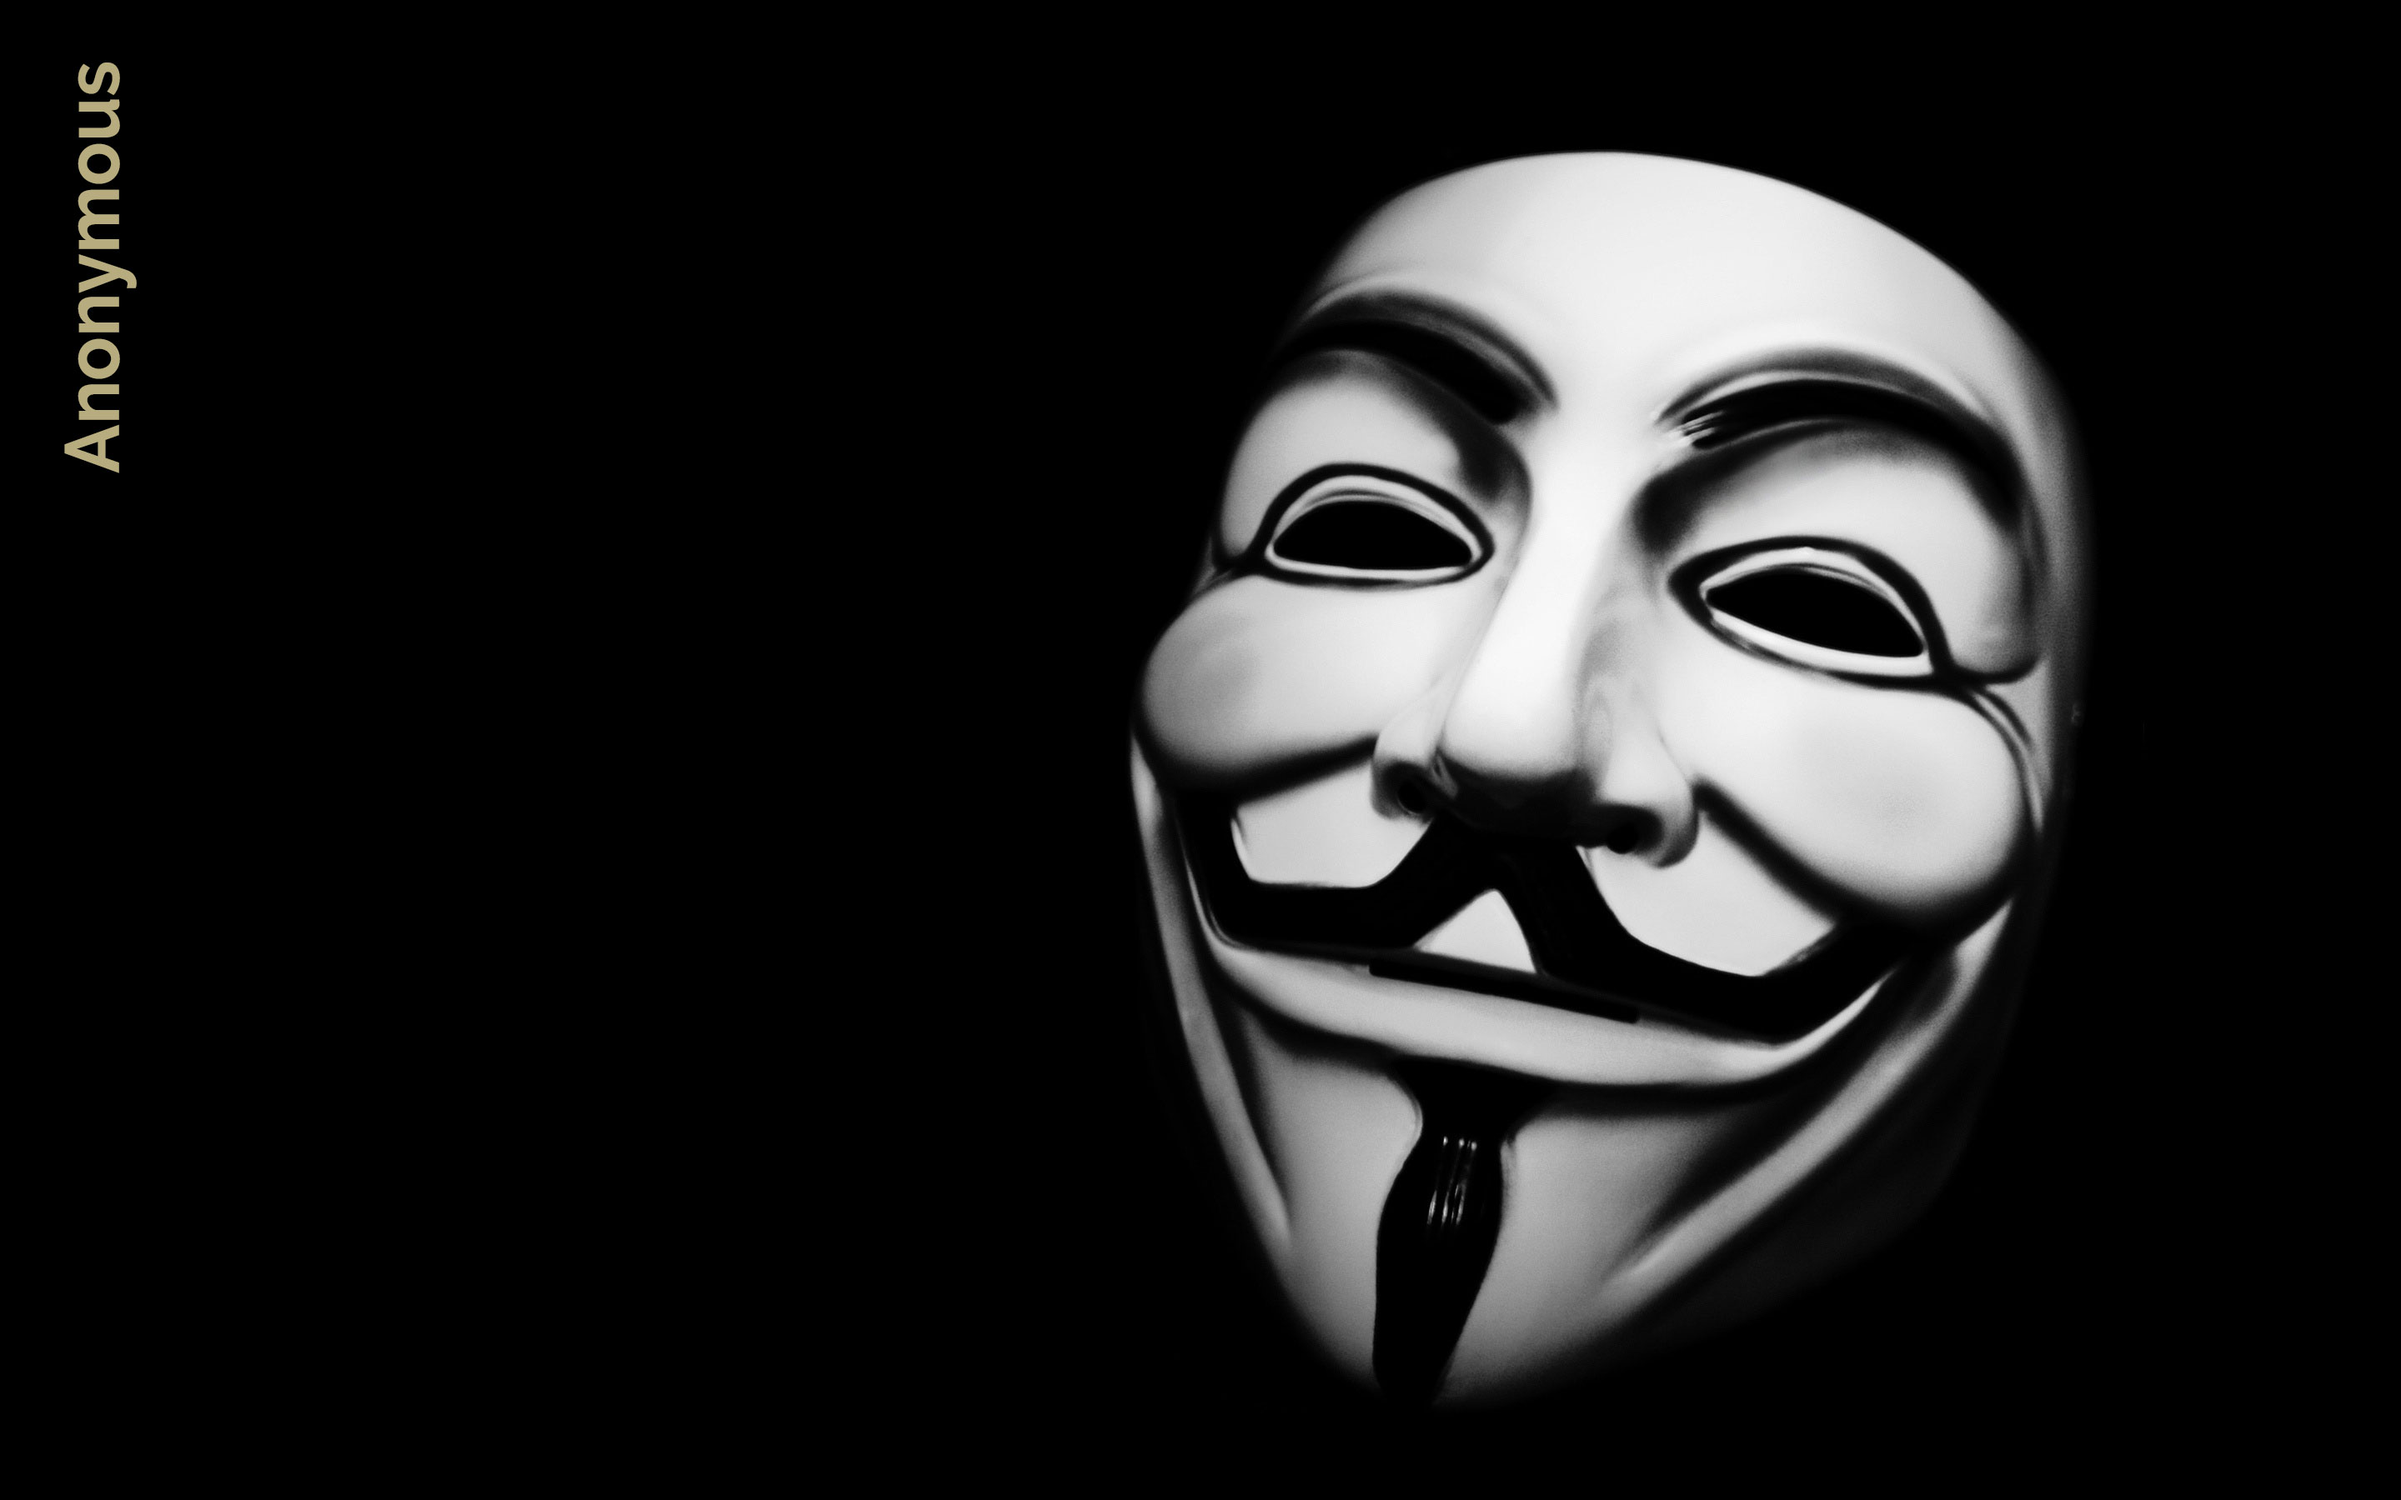
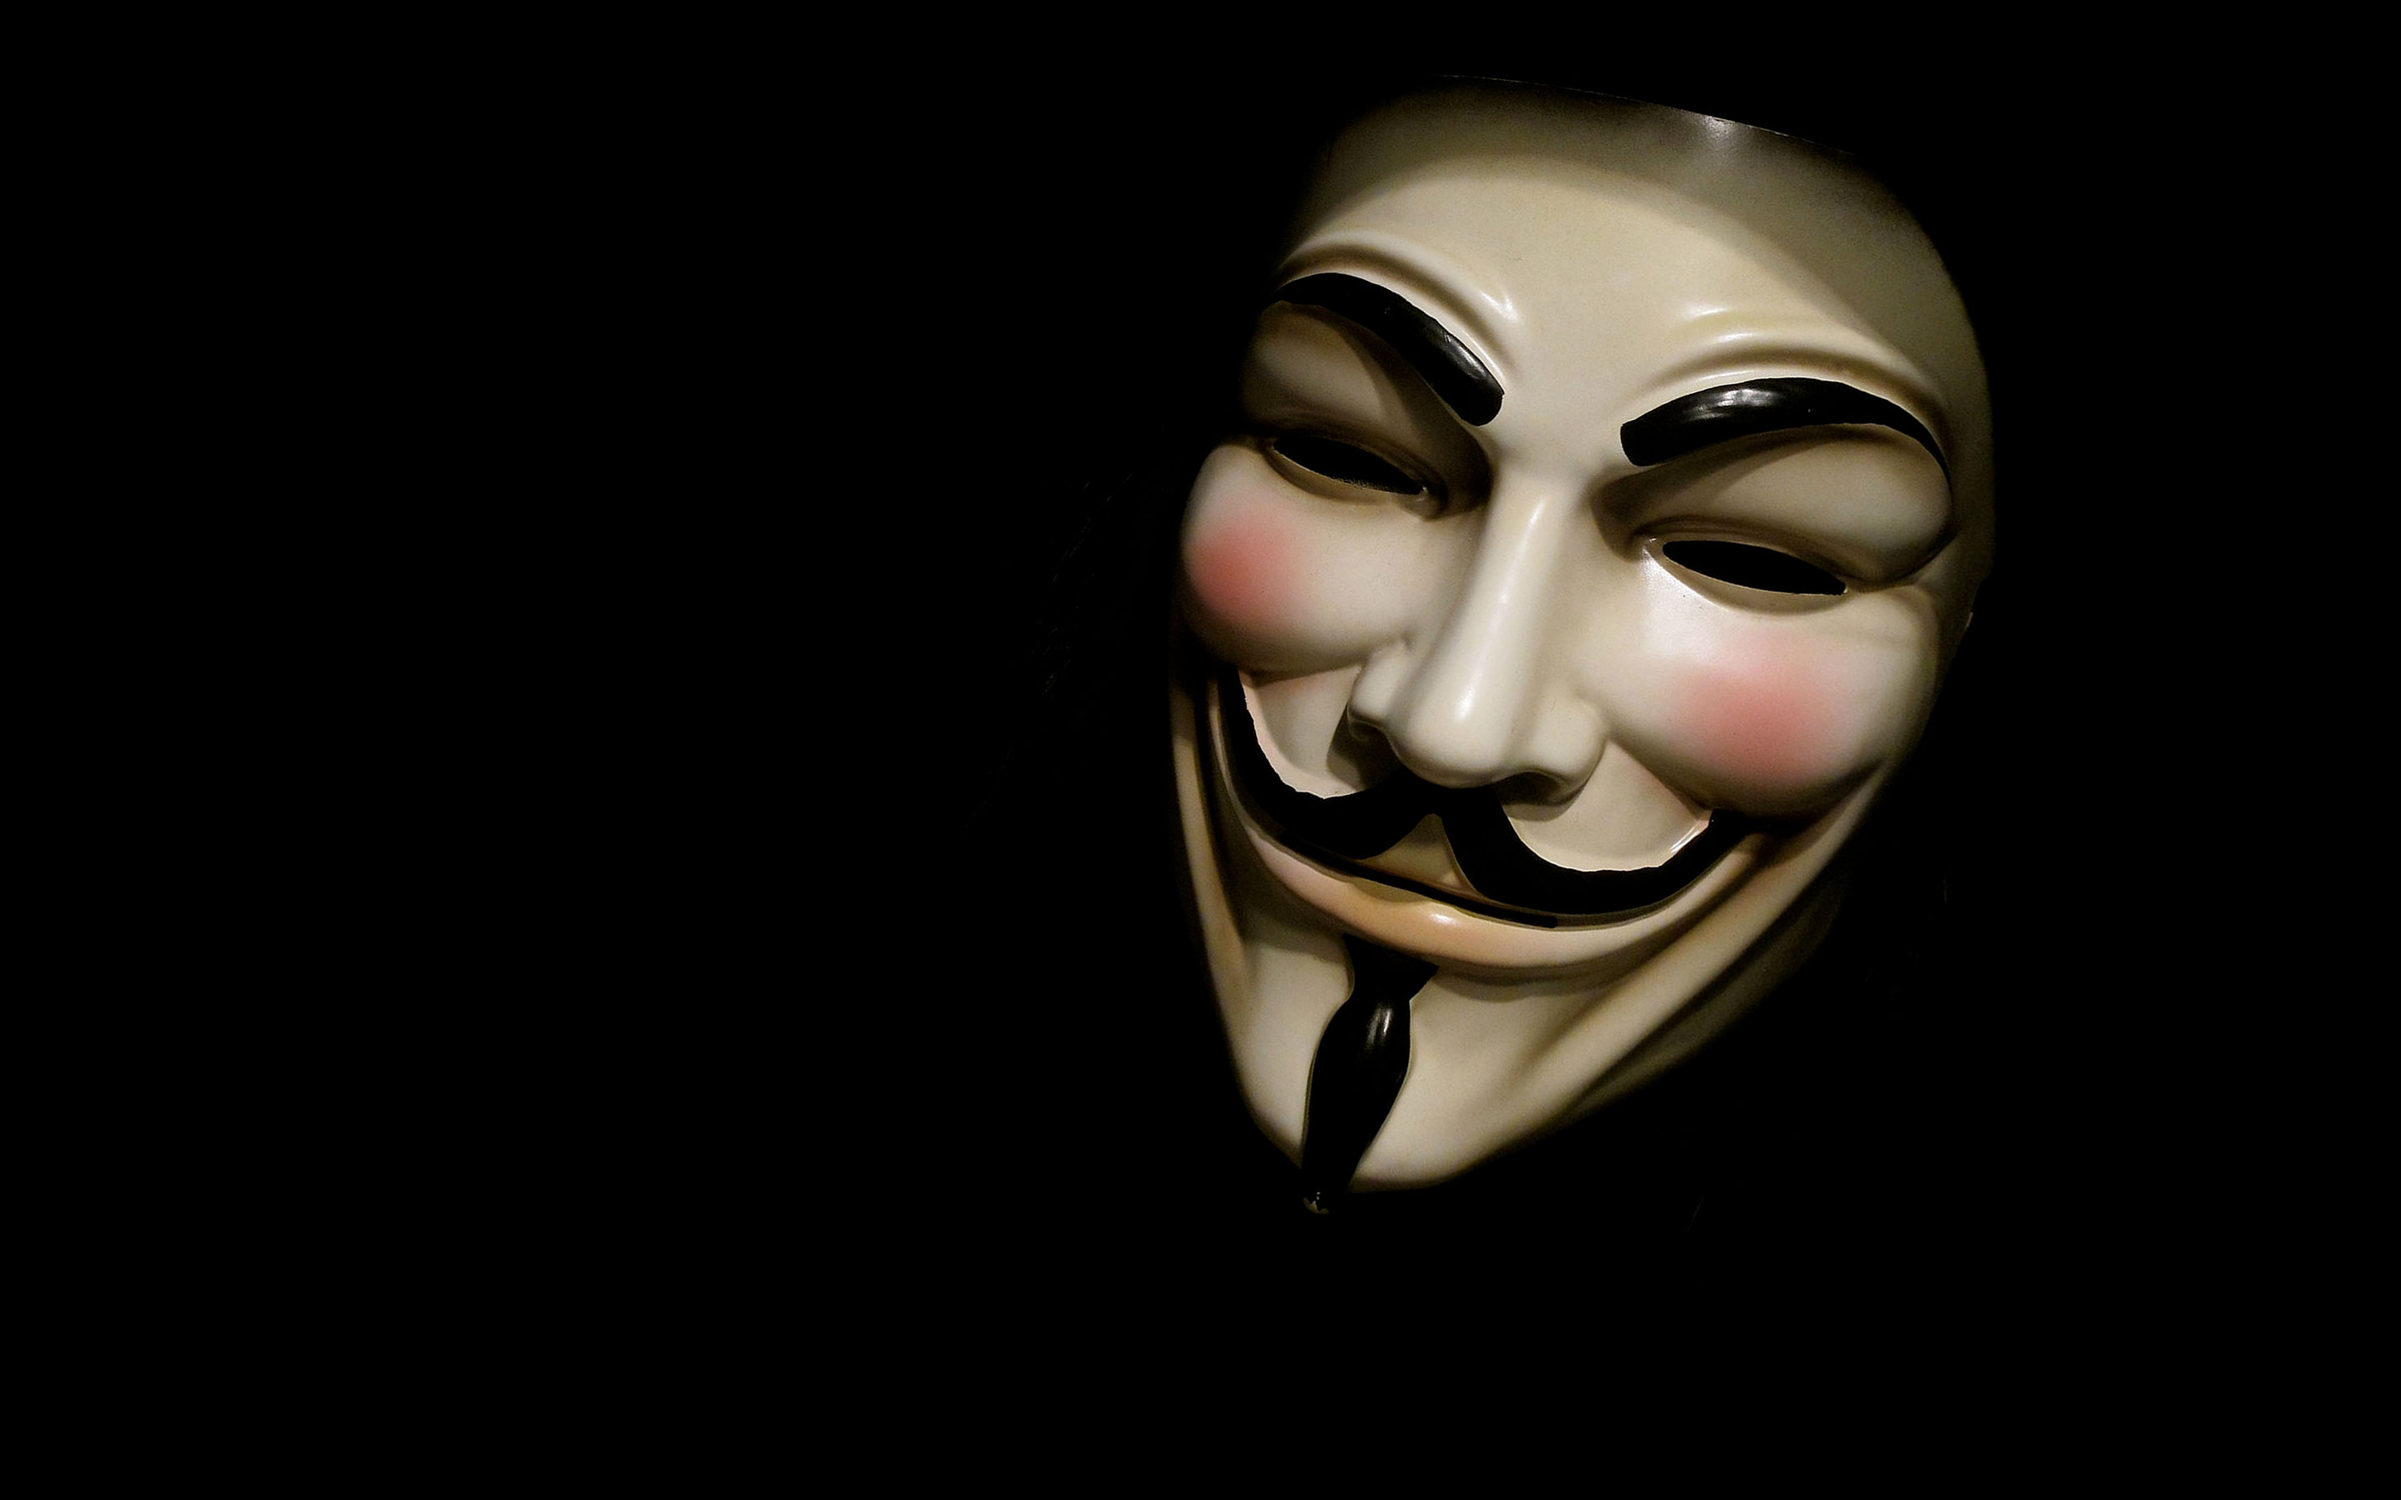
anonymous last changes

Changed region(s): [[0.4688, 0.0622, 0.875, 0.9333], [0.0312, 0.0311, 0.0625, 0.3111]]

diff --git a/docs/anonymous/index.html b/docs/anonymous/index.html
@@ -2,6 +2,7 @@
 <html>
 <head>
     <meta charset="UTF-8">
+    <meta name="viewport" content="width=device-width, initial-scale=1">
     <title>Anonymous</title>
     <link rel="stylesheet" href="https://stackpath.bootstrapcdn.com/bootstrap/4.1.3/css/bootstrap.min.css"
           integrity="sha384-MCw98/SFnGE8fJT3GXwEOngsV7Zt27NXFoaoApmYm81iuXoPkFOJwJ8ERdknLPMO" crossorigin="anonymous">
@@ -39,27 +40,31 @@
 
 <div class="overlay"></div>
 
-<div class="container">
+<div class="container-fluent">
     <div class="row">
         <div class="col-lg-1" id="z-middle"></div>
         <div class="col-lg-8" id="col-7-bg" id="z-front">
+            <h1>About Anonymous</h1>
             <p>Anonymous ist ein aus dem Internet bekanntes Kollektiv von Personen, die unter diesem Namen
                 Hackerangriffe und Demonstrationen ausüben. Seit 2008 machen sie sich für die Redefreiheit und die
                 Unabhängigkeit des Internets stark. Zeitgleich stellen sie sich gegen das Urheberrecht und einzelne
-                Organisationen wie (z.B. <a href="https://de.wikipedia.org/wiki/Scientology" target="_blank">Scientology</a>).
+                Organisationen wie (z.B. <a href="https://de.wikipedia.org/wiki/Scientology"
+                                            target="_blank">Scientology</a>).
                 Gegenwärtig richten sie sich hauptsächlich gegen Internetzensuren und
                 an von dem Staat ausgehende Zensuren.</p>
             <p> Die Angriffe/Demos werden viral und/oder physisch ausgetragen. Bei letzterem tragen die Anons die Maske
                 aus <a href="https://de.wikipedia.org/wiki/V_wie_Vendetta_(Film)" target="_blank">&laquo;V wie Vendetta&raquo;</a>,
                 die ihre Zugehörigkeit veranschaulicht und sie gleichzeitig anonym
-                hält. Jeder der ein Mitglied sein will, kann das werden. Es gibt weder einen Anführer, noch Mitgliederlisten
+                hält. Jeder der ein Mitglied sein will, kann das werden. Es gibt weder einen Anführer, noch
+                Mitgliederlisten
                 oder eine Struktur die bindend ist, da es sich eher um eine Bewegung als um eine Organisation
                 handelt.</p>
-            <p>Anonymous entstand unter anderem auf Imgeboard-Platformen wie <a href="www.4chan.org" target="_blank">4chan.org</a>.
+            <p>Anonymous entstand unter anderem auf Imgeboard-Platformen wie <a href="http://4chan.org" target="_blank">4chan.org</a>.
                 Dort konnten Bilder und Botschaften unzensiert hochgeladen werden. Eine Namensangabe war optional,
                 weshalb hauptsächlich &laquo;Anonymous&raquo; als Name angegeben wurde.</p>
             <p> Ihr erster grosser Angriff galt den Praktiken und Institutionen von Scientology. Dieses Projekt wurde
-                unter dem Namen <a href="https://en.wikipedia.org/wiki/Project_Chanology" target="_blank">Chanology</a> bekannt. Am Ende dieser und fast aller anderen Botschaften erscheint
+                unter dem Namen <a href="https://en.wikipedia.org/wiki/Project_Chanology" target="_blank">Chanology</a>
+                bekannt. Am Ende dieser und fast aller anderen Botschaften erscheint
                 Anonymous' Motto:</p>
             <p>&laquo;We are Anonymous.<br>
                 We are Legion.<br>
@@ -67,11 +72,15 @@
                 We do not forget.<br>
                 Expect us.&raquo;</p>
             <h2>Quellen</h2>
-            <h3>Text, Zitat & Minaturbild – <a href="https://de.wikipedia.org/wiki/Anonymous_(Kollektiv)"
+            <h3>Text & Zitat – <a href="https://de.wikipedia.org/wiki/Anonymous_(Kollektiv)"
                                                target="_blank">Wikipedia</a><br>
+                Minaturbild by Vincent Diamante – <a href="https://commons.wikimedia.org/wiki/File:Anonymous_at_Scientology_in_Los_Angeles.jpg"
+                   target="_blank">Wikimedia</a>, <a href="https://creativecommons.org/licenses/by-sa/2.0"
+                                                       target="_blank">CC BY-SA 2.0 License</a><br>
                 Hintergrundbild – <a
-                        href="http://s1.picswalls.com/wallpapers/2015/09/27/anonymous-desktop-wallpapers_123832257_275.jpg"
-                        target="_blank">Picswalls</a></h3>
+                        href="https://commons.wikimedia.org/wiki/File:Original_Guy_Fawks_mask_from_V_for_Vendetta_(5400848923).jpg"
+                        target="_blank">Wikimedia</a>, <a href="https://creativecommons.org/licenses/by-sa/2.0"
+                                                        target="_blank">CC BY-SA 2.0 License</a></h3>
 
 
         </div>

diff --git a/docs/anonymous/assets/main.css b/docs/anonymous/assets/main.css
@@ -1,3 +1,5 @@
+@import url('https://fonts.googleapis.com/css?family=Raleway:300,400,700');
+
 /*  MAIN
 ========================================== */
 .content {
@@ -32,6 +34,13 @@ html {
     opacity: 0.3;
 }
 
+h1 {
+    font-size: 3rem;
+    font-weight: light;
+    color: #b7ac7f;
+    padding-top: 2%;
+}
+
 h2 {
     font-size: 1rem;
     color: lightgray;
@@ -51,35 +60,27 @@ a {
     -webkit-text-decoration-skip: objects;
 }
 
+p {
+    padding-top: 2%;
+
+}
+
 a:hover {
     color: white;
     text-decoration: none;
 }
 
-burger {
-    color: #b7ac7f;
-
+.burger span, .burger span::before, .burger span::after {
+    background-color: white !important;
 }
 
-burger:hover {
-    cursor: pointer;
-    color: #b7ac7f;
-
+.burger.clicked span {
+    background-color: transparent !important;
 }
 
+.row {
+    padding-left: 10px;
 
-burger.clicked:hover {
-    cursor: pointer;
-    color: #b7ac7f;
-
-}
-
-nav ul.main li a {
-    color: #b7ac7f;
-}
-
-nav ul.main li a:hover {
-    color: white;
 }
 
 

diff --git a/docs/anonymous/preview.md b/docs/anonymous/preview.md
@@ -1,1 +1,1 @@
-[Lachlan Rogers](https://www.flickr.com/photos/lachlanrogers/2938134458/)
+Vincent Diamante [CC BY-SA 2.0 (https://creativecommons.org/licenses/by-sa/2.0)], via Wikimedia Commons
